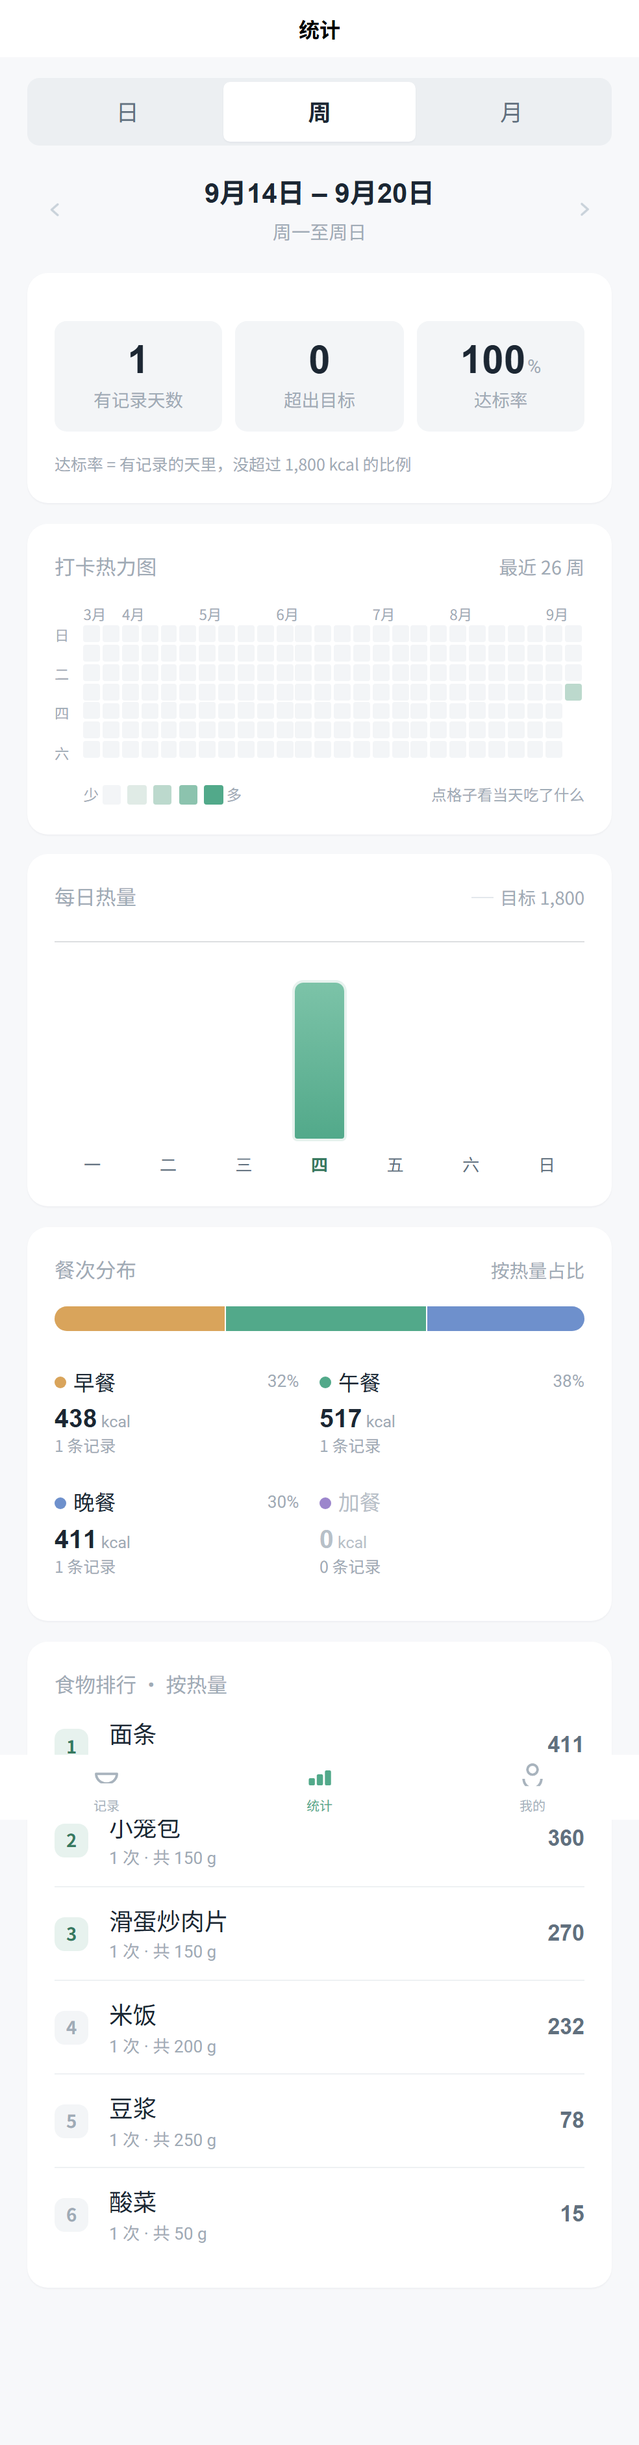
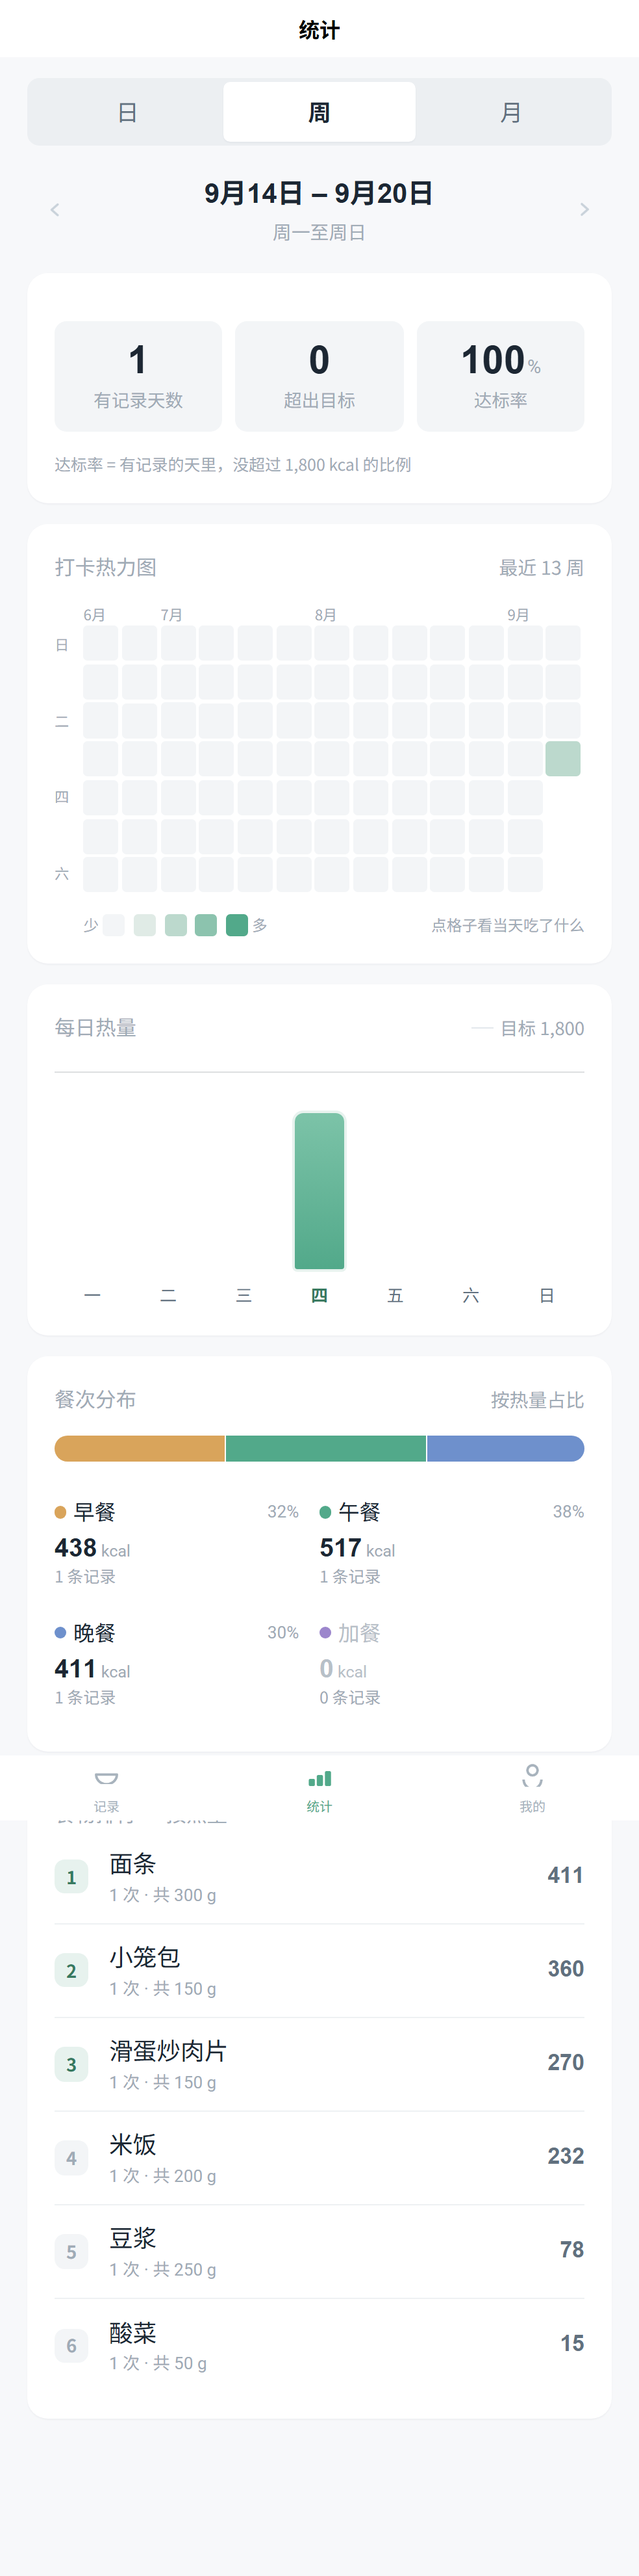
热力图从 26 周改成 13 周：格子大一倍，并修掉行标签错位
真机上 26 列太挤：每格只有 9~13px，手指点不准、五档深浅也分不清。
改成 13 周（一个季度）后每格约 20~27px（492px 宽下实测 27×27），
点起来轻松，深浅一眼能分辨。

顺带修掉一个「改周数就会暴露」的对齐问题：
行标签（一/三/五/日）原来写死了高度（23rpx），是按 26 列时的格子高度
凑出来的数字 —— 周数一变格子变大，标签立刻和格子对不上。
改成「7 等分撑满」：标签列用 flex 纵向排列、每项 flex:1，
高度自动跟格子行一致，以后再调周数或换屏幕都不用重算。

还发现多出来的几像素：最后一行格子带着 margin-bottom，
让整列比「7 × 行高」高了一点（实测偏差 1~2px）。
去掉最后一行的底部间隔后偏差收敛到 ±1px（亚像素取整）。

模块默认值也从 26 改成 13，与应用实际显示保持一致（只有一处数字要改）。

实测：13 列 × 7 天 + 5 个图例 = 96 格、格子 27×27、
行标签与格子行中心偏差 ±1px、页面无横向溢出、
点格子 → 当天明细 → 「看这一天」跳日视图全部正常。378 项测试全过。

diff --git a/src/pages/stats/stats.vue b/src/pages/stats/stats.vue
@@ -300,13 +300,15 @@ const rangeSub = computed(() => {
 /* ---------------- 打卡热力图 ---------------- */
 
 const LEVELS = [0, 1, 2, 3, 4]
-const HEAT_WEEKS = 26
+const HEAT_WEEKS = 13
 
 /** 选中哪一天（空字符串 = 没选） */
 const picked = ref('')
 
 /**
- * 热力图固定看最近 26 周，不跟上面的日/周/月切换走 ——
+ * 热力图固定看最近 13 周（一个季度），不跟上面的日/周/月切换走 ——
+ * 列数少一半，格子大一倍：真机上 26 列时每格只有 9~13px，14 列约 20~27px，
+ * 手指点得准，五档深浅也看得清。
  * 「打卡」本来就是长期视角，跟着切反而看不出规律。
  * 依赖 goal（来自 settings）以便 onShow 刷新后重算。
  */
@@ -612,18 +614,21 @@ function tapBar(b) {
 		display: flex;
 	}
 
+	/* 行标签用「7 等分」对齐格子，而不是写死高度 ——
+	   格子大小会随周数和屏幕宽度变，写死高度一改周数就错位 */
 	.hm-days {
 		width: 34rpx;
 		flex-shrink: 0;
+		display: flex;
+		flex-direction: column;
 	}
 
 	.hm-day {
-		display: block;
+		flex: 1;
+		display: flex;
+		align-items: center;
 		font-size: 17rpx;
 		color: $c-text-mute;
-		/* 与格子同高：20rpx 格子 + 3rpx 间隔 */
-		height: 23rpx;
-		line-height: 23rpx;
 	}
 
 	.hm-day.hide {
@@ -639,7 +644,7 @@ function tapBar(b) {
 	.hm-col {
 		flex: 1;
 		min-width: 0;
-		padding-right: 3rpx;
+		padding-right: 4rpx;
 	}
 
 	/* 正方形格子：用 padding-bottom 撑高度（比 aspect-ratio 兼容性稳） */
@@ -647,8 +652,14 @@ function tapBar(b) {
 		width: 100%;
 		height: 0;
 		padding-bottom: 100%;
-		border-radius: 3rpx;
-		margin-bottom: 3rpx;
+		border-radius: 5rpx;
+		margin-bottom: 4rpx;
+	}
+
+	/* 最后一行的格子不要底部间隔：多出来的那几像素会让整列偏高，
+	   行标签就对不齐了（标签是 7 等分，格子是「格子 + 间隔」） */
+	.hm-col .hm-cell:last-child {
+		margin-bottom: 0;
 	}
 
 	/* 五档深浅：同一色相从浅到深，一眼看出吃多吃少 */
@@ -695,10 +706,11 @@ function tapBar(b) {
 	}
 
 	.hm-mini {
-		width: 22rpx;
-		height: 22rpx;
+		width: 26rpx;
+		height: 26rpx;
 		padding-bottom: 0;
-		margin: 0 4rpx;
+		margin: 0 5rpx;
+		border-radius: 5rpx;
 	}
 
 	.hm-foot-hint {

diff --git a/src/core/stats.js b/src/core/stats.js
@@ -174,7 +174,7 @@ export function intakeLevel(kcal, goal = 0) {
  * 打卡热力图的数据：按周分列，每列 7 天（周一到周日）。
  *
  * @param records 记录数组（至少覆盖这段时间）
- * @param weeks   显示多少周，默认 26（半年）
+ * @param weeks   显示多少周，默认 13（一个季度；列少一倍、格子大一倍）
  * @param endKey  最后一天（通常是今天），它所在的那一列是最后一列
  * @param goal    每日目标
  * @returns { weeks, cells: 二维数组 [列][行], months: 每列对应的月份标签 }
@@ -182,8 +182,8 @@ export function intakeLevel(kcal, goal = 0) {
  * 未来日期（本列中今天之后的日子）标 future=true，渲染成空白，
  * 不画成「没记录」—— 那会让人误以为你那天没打卡。
  */
-export function heatmap(records, { weeks = 26, endKey, goal = 0 } = {}) {
-	const n = Math.max(1, Number(weeks) || 26)
+export function heatmap(records, { weeks = 13, endKey, goal = 0 } = {}) {
+	const n = Math.max(1, Number(weeks) || 13)
 	const last = endKey || ''
 	// 最后一列 = endKey 所在周的周一；第一列再往前推 n-1 周
 	const lastMonday = startOfWeek(last)

diff --git a/README.md b/README.md
@@ -20,7 +20,7 @@
 - **本地持久化** —— 记录存本机，照片存 App 私有目录，无任何统计上报
 - **时间分类** —— 按日期分组 + 按时间自动归类餐次（早/午/晚/加餐，含夜宵）
 - **汇总统计** —— 日 / 周 / 月视图、达标率、餐次分布、食物热量排行；
-  另有**打卡热力图**（最近 26 周，五档深浅），点格子看那天的明细
+  另有**打卡热力图**（最近 13 周，五档深浅），点格子看那天的明细
 - **备份与后悔药** —— 清空记录或覆盖导入前会自动在本机留一份快照（保留最近 3 份，可一键回滚）；
   （照片导出暂时下掉了，原因与后续计划见「待优化」）
 
